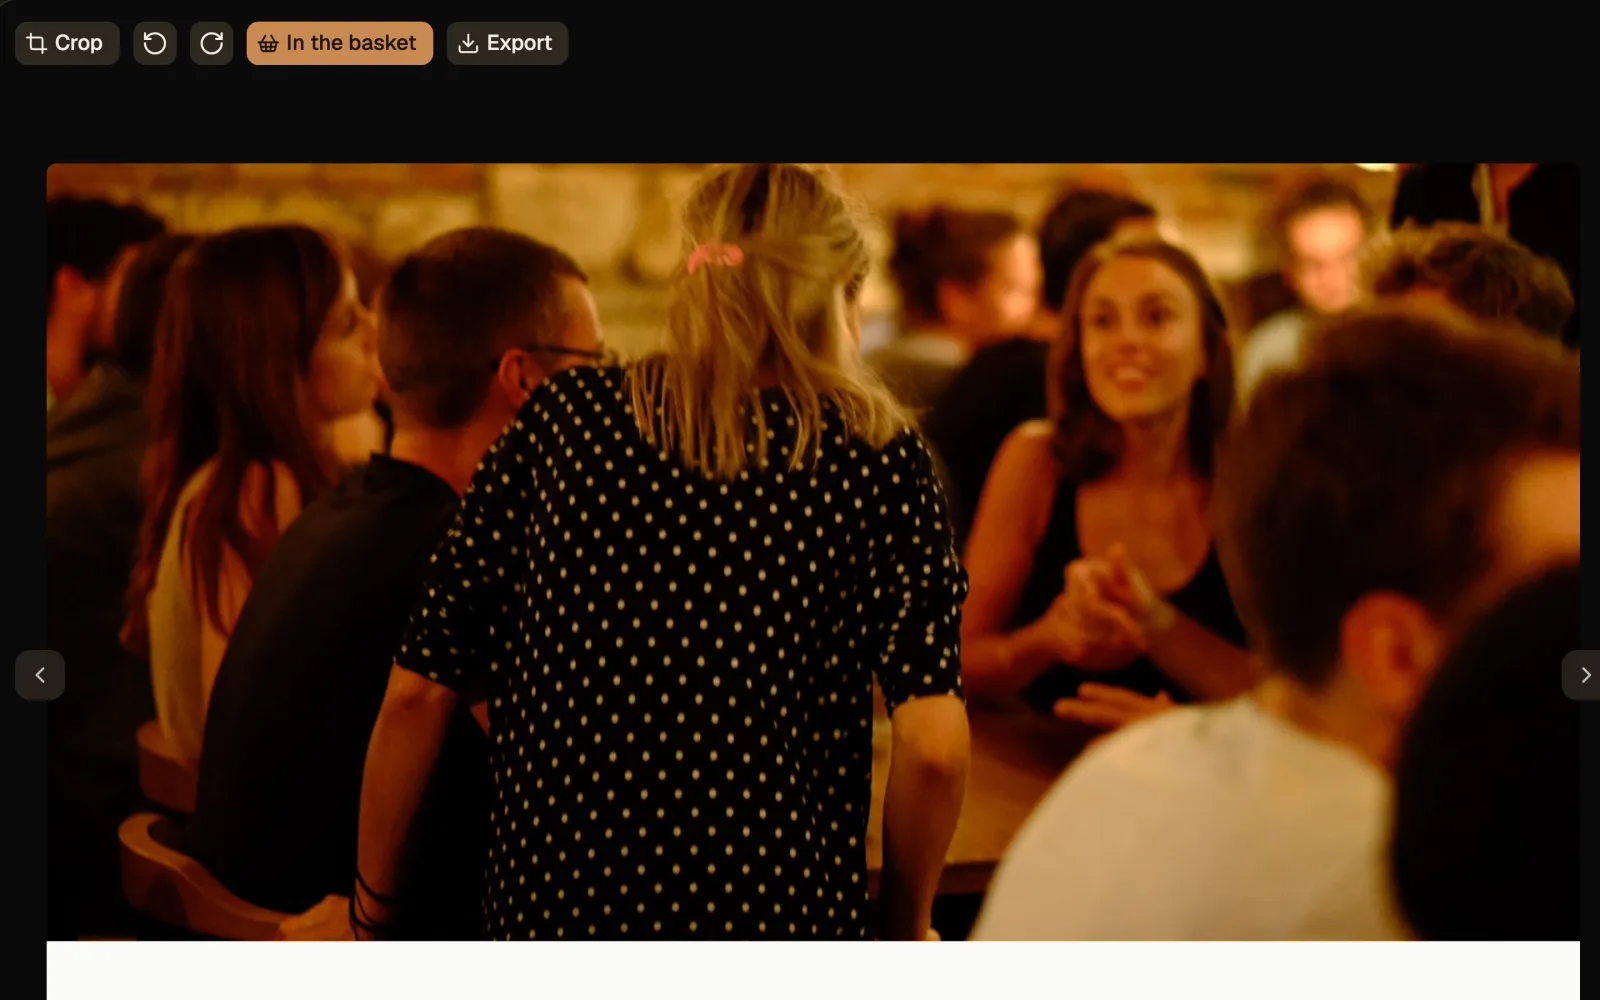
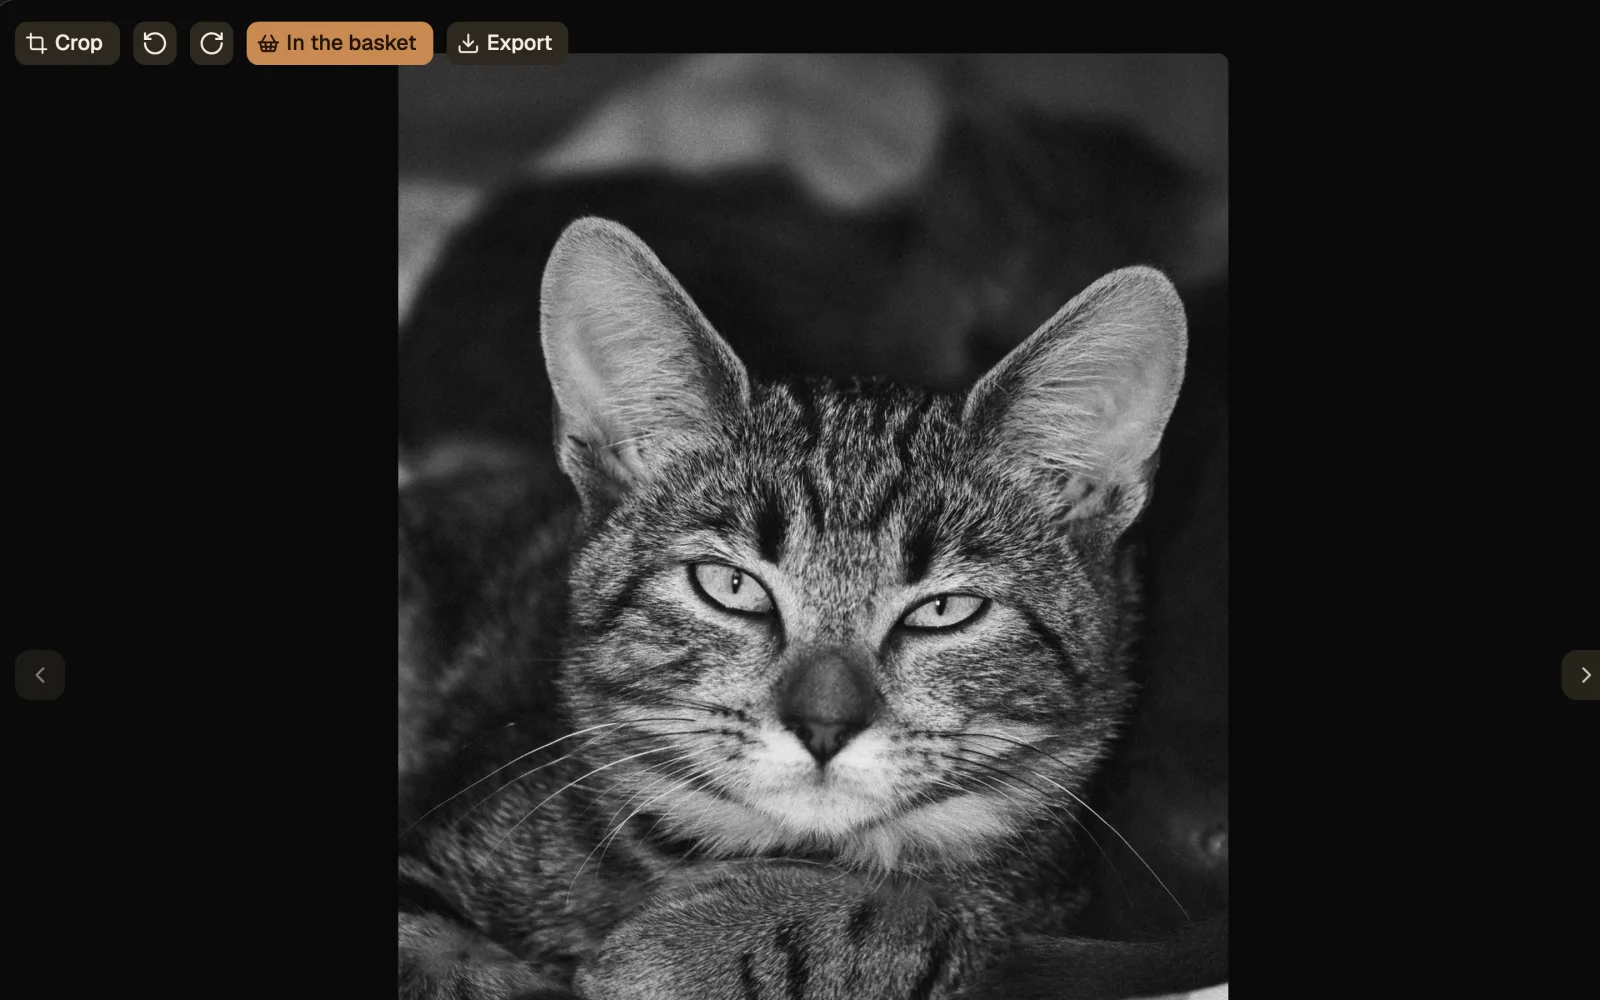
docs(site): the print-basket preview shows the owner's cat too

diff --git a/site/screenshots/best_shot_photos.py b/site/screenshots/best_shot_photos.py
@@ -1,5 +1,5 @@
 # SPDX-License-Identifier: GPL-3.0-only
-"""The best-shot demo group for the website's screenshots (site/screenshots/README.md).
+"""The cat burst for the website's print-basket and best-shot screenshots (site/screenshots/README.md).
 
     uv run python -I site/screenshots/best_shot_photos.py <photo.jpg> <out-folder>
 

diff --git a/site/screenshots/README.md b/site/screenshots/README.md
@@ -11,7 +11,7 @@ The screenshots on the website show the **real app on demo photos**, never anyon
 
 Photos are chosen by file name in `shoot.mjs`.
 
-**Best shot shows the owner's cat**, not the demo photos. `uv run python -I site/screenshots/best_shot_photos.py P1057694.JPG <folder>` makes a burst from that one photo (Lumix GX9, by @hoangphi01, all rights reserved, not kept in the repository): the photo itself, a softer, a shaken and a darker copy, one second apart, EXIF kept. `build.sh` records it on its own when given the photo as a third argument, and `shoot.mjs` shoots the best-shot screens (`groups`, `manual-groups`) from that recording, so every other shot keeps the demo photos. The app groups the four and picks the sharp one with its real scores. Needs cargo, npm, `cwebp` and uv (for Python with Pillow).
+**The print-basket preview (`swipe`) and best shot show the owner's cat**, not the demo photos. `uv run python -I site/screenshots/best_shot_photos.py P1057694.JPG <folder>` makes a burst from that one photo (Lumix GX9, by @hoangphi01, all rights reserved, not kept in the repository): the photo itself, a softer, a shaken and a darker copy, one second apart, EXIF kept. `build.sh` records it on its own when given the photo as a third argument, and `shoot.mjs` shoots the basket preview (`swipe`, the sharp shot in the basket) and the best-shot screens (`groups`, `manual-groups`) from that recording, so every other shot keeps the demo photos. The app groups the four and picks the sharp one with its real scores. Needs cargo, npm, `cwebp` and uv (for Python with Pillow).
 
 ## Demo photos
 

diff --git a/CHANGELOG.md b/CHANGELOG.md
@@ -11,7 +11,7 @@ The format is based on [Keep a Changelog](https://keepachangelog.com/en/1.1.0/),
 ### Added
 
 - **Website:** a Manual page, in English and Vietnamese, with screenshots of the real app, in 18 chapters that follow the way you work: getting started, stars and filters, best shot, the print basket, print size, crop and straighten, zoom, the date stamp, the info frame, dates and places, camera clocks, export, projects and undo, RAW, Open with, shooting with a camera, updates, and every shortcut. The chapter list opens from a round button bottom left.
-- **Website:** the best-shot screenshots show a cat photographed by the author on a Lumix GX9, with a softer, a shaken and a darker copy beside it.
+- **Website:** the print-basket and best-shot screenshots show a cat photographed by the author on a Lumix GX9, with a softer, a shaken and a darker copy beside it for best shot.
 
 ### Changed
 
